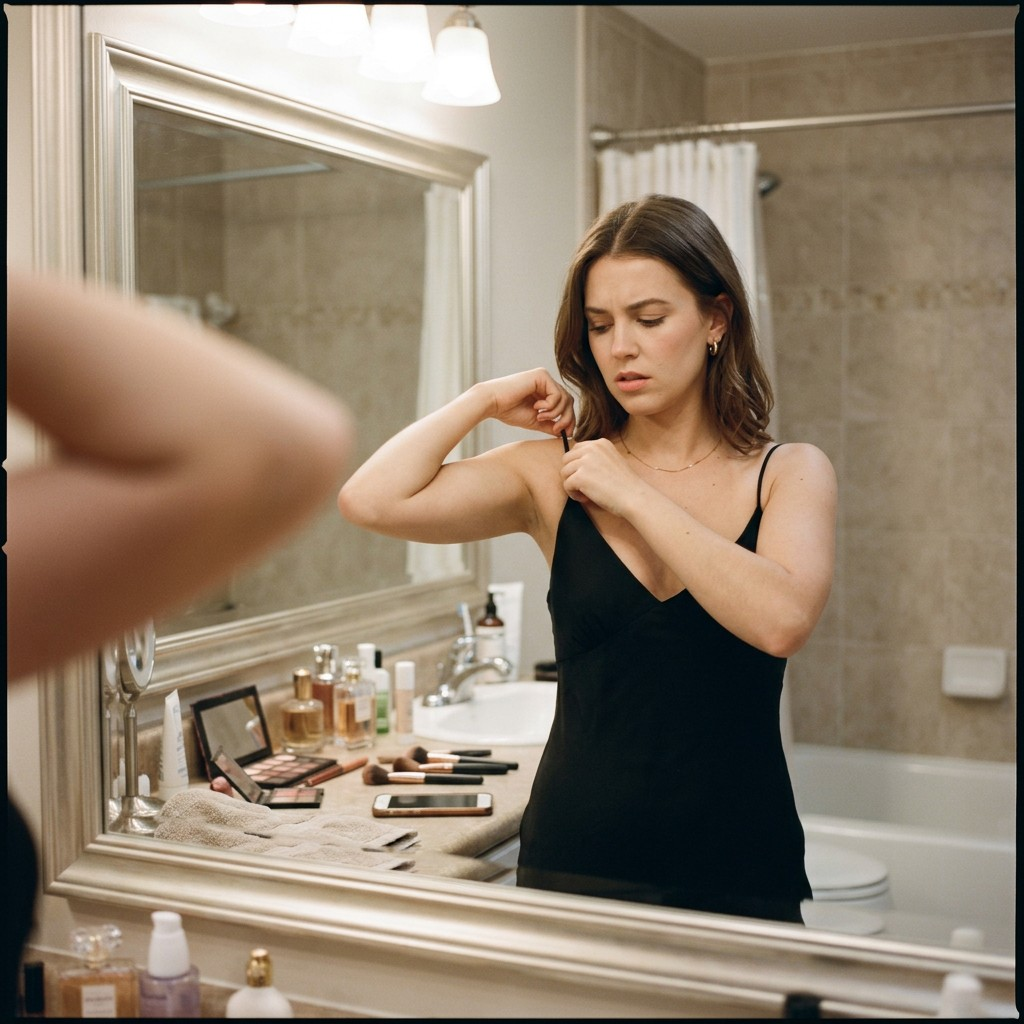
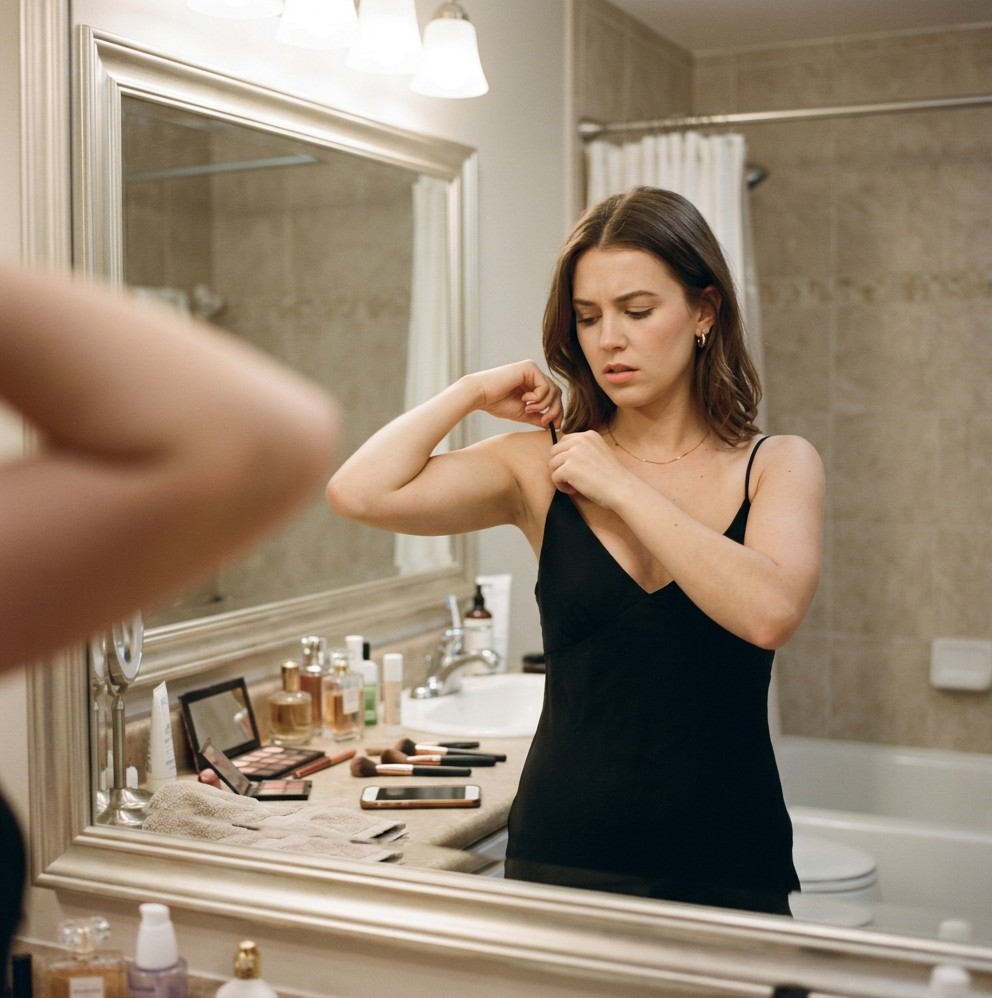
Replace problem section photo on cinta silicona page.

diff --git a/cinta-silicona-senos.html b/cinta-silicona-senos.html
@@ -115,7 +115,7 @@
   <div class="shell">
     <div class="reason-block-inner">
       <div class="reason-block-media content-media content-media--portrait">
-        <img src="/images/silicone-problema.png?v=20260826p" alt="Mujer ajustándose el vestido frente al espejo — las tiras del sostén se ven y molestan" width="800" height="1000" loading="lazy" decoding="async">
+        <img src="/images/silicone-problema.png?v=20260826p2" alt="Mujer ajustándose el vestido frente al espejo — las tiras del sostén se ven y molestan" width="800" height="1000" loading="lazy" decoding="async">
       </div>
       <div class="reason-block-copy">
         <h2 class="reason-block-title">Ya escogiste el vestido. El problema es lo que va debajo.</h2>
